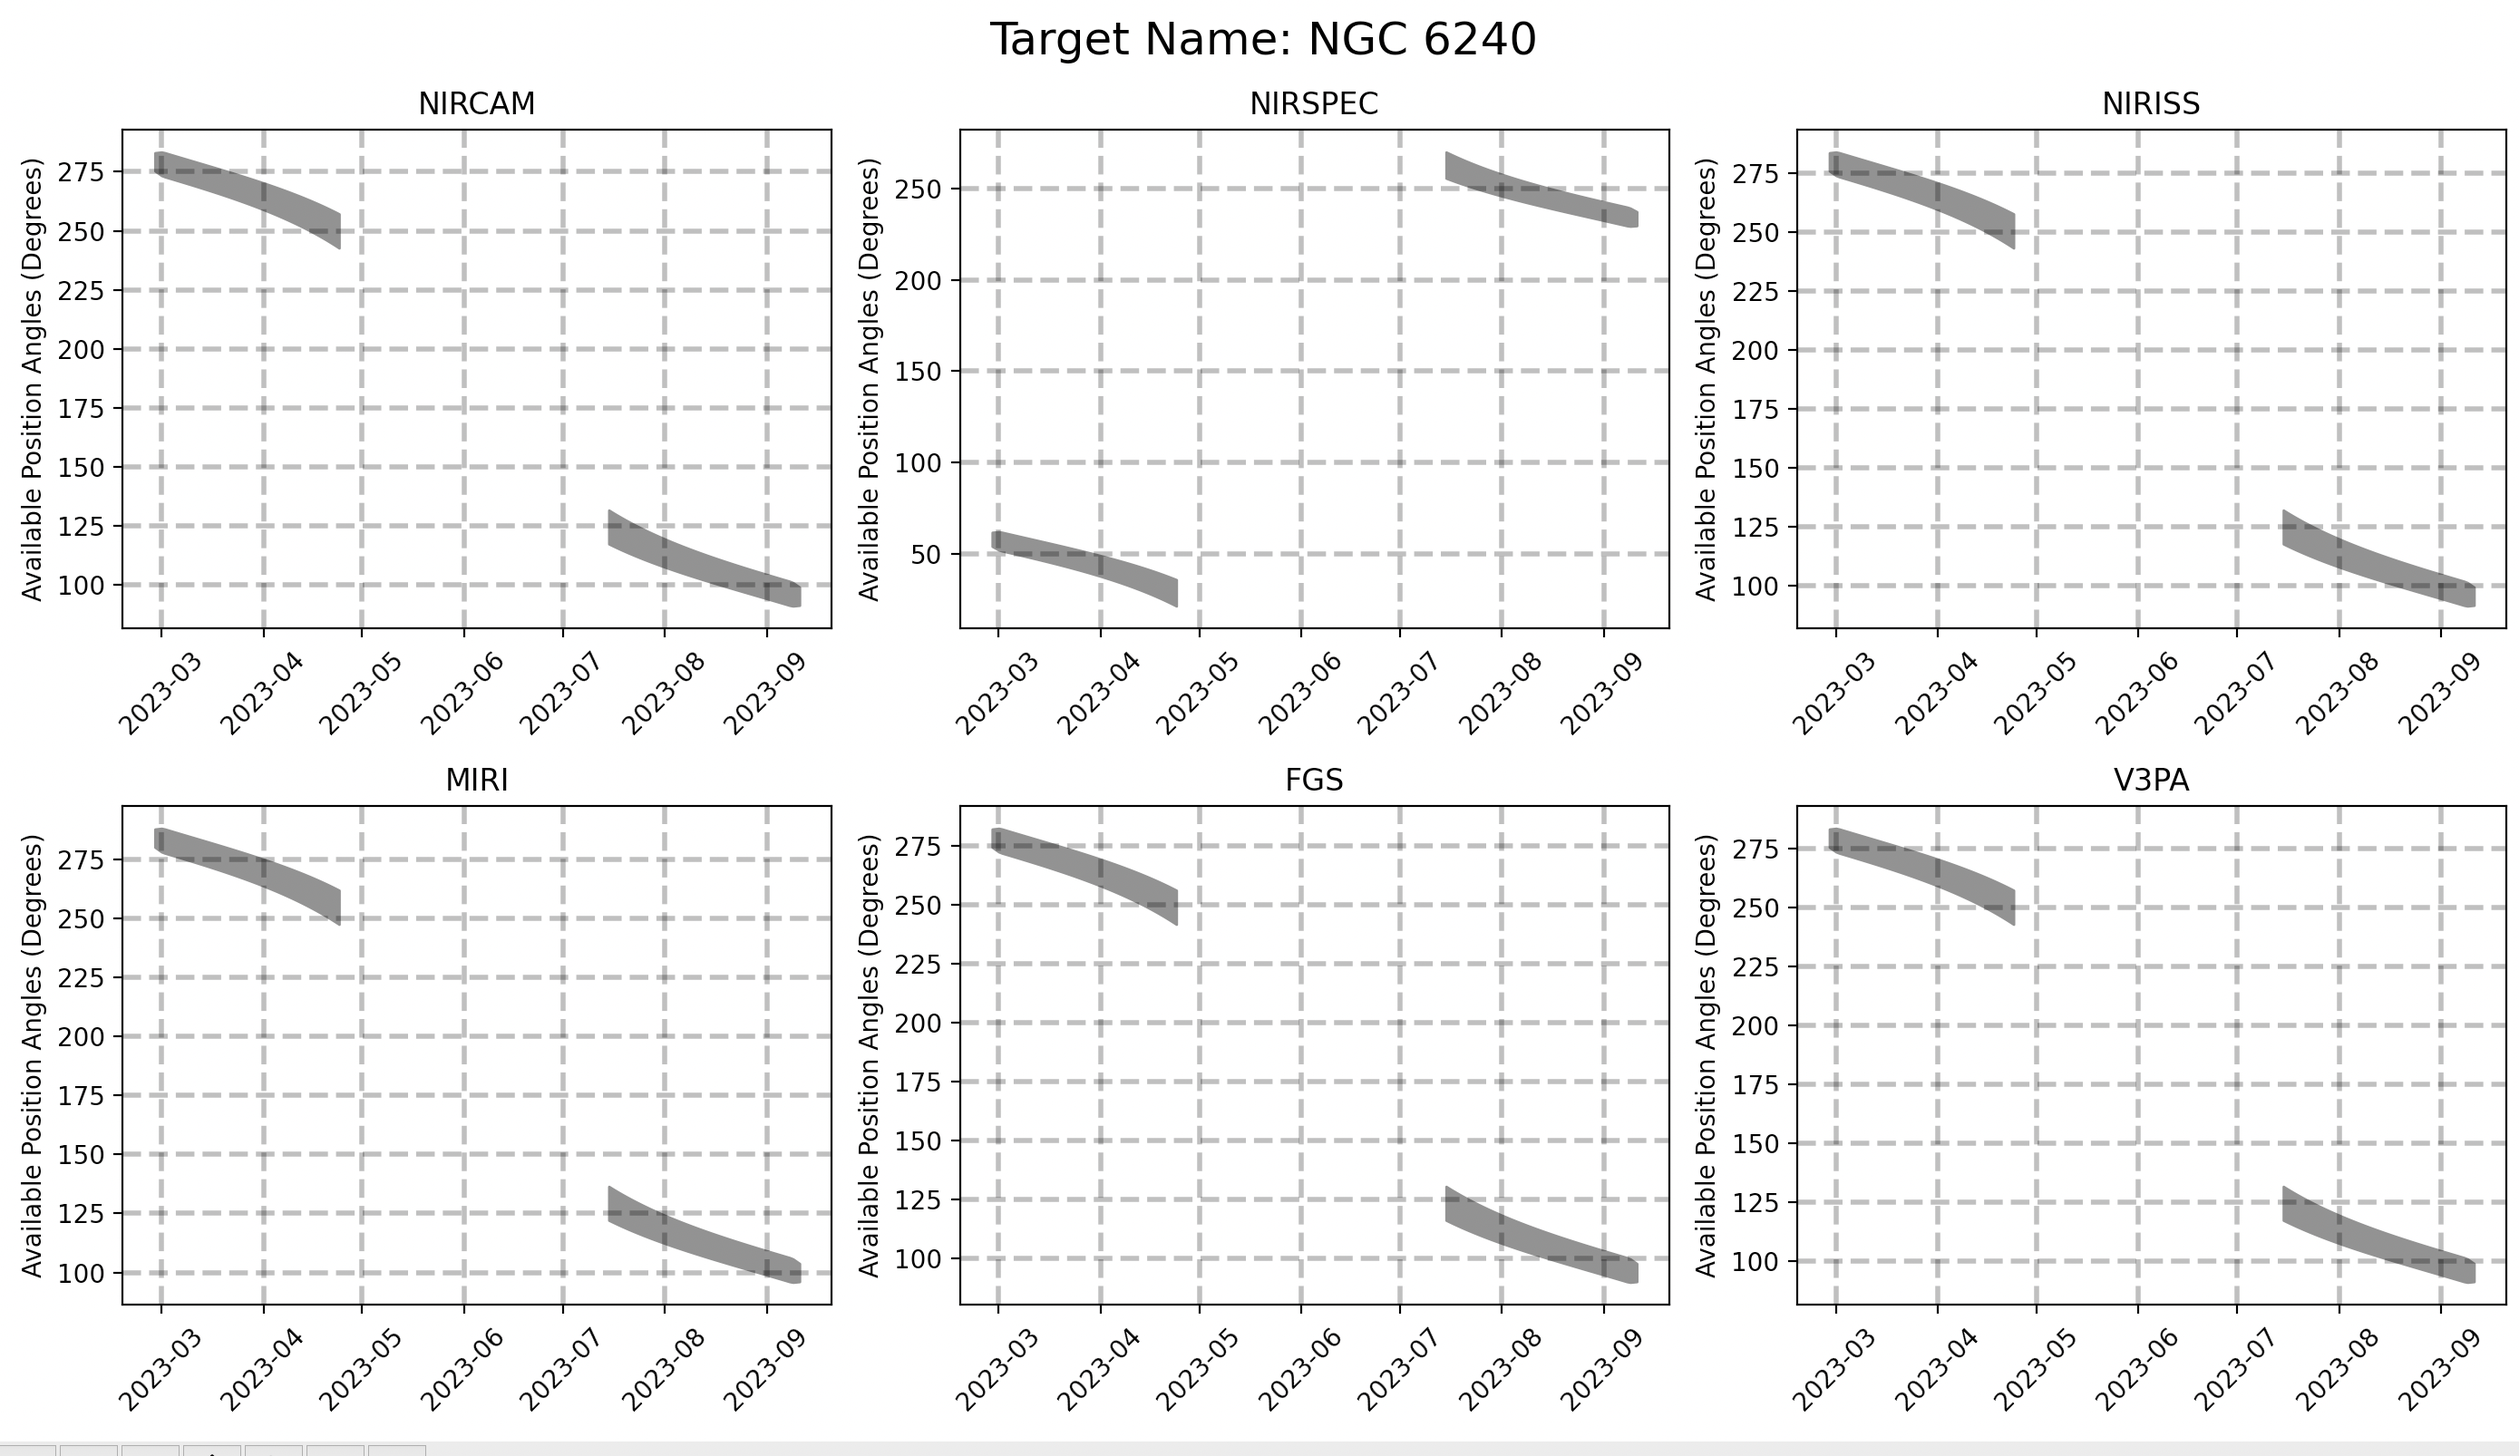
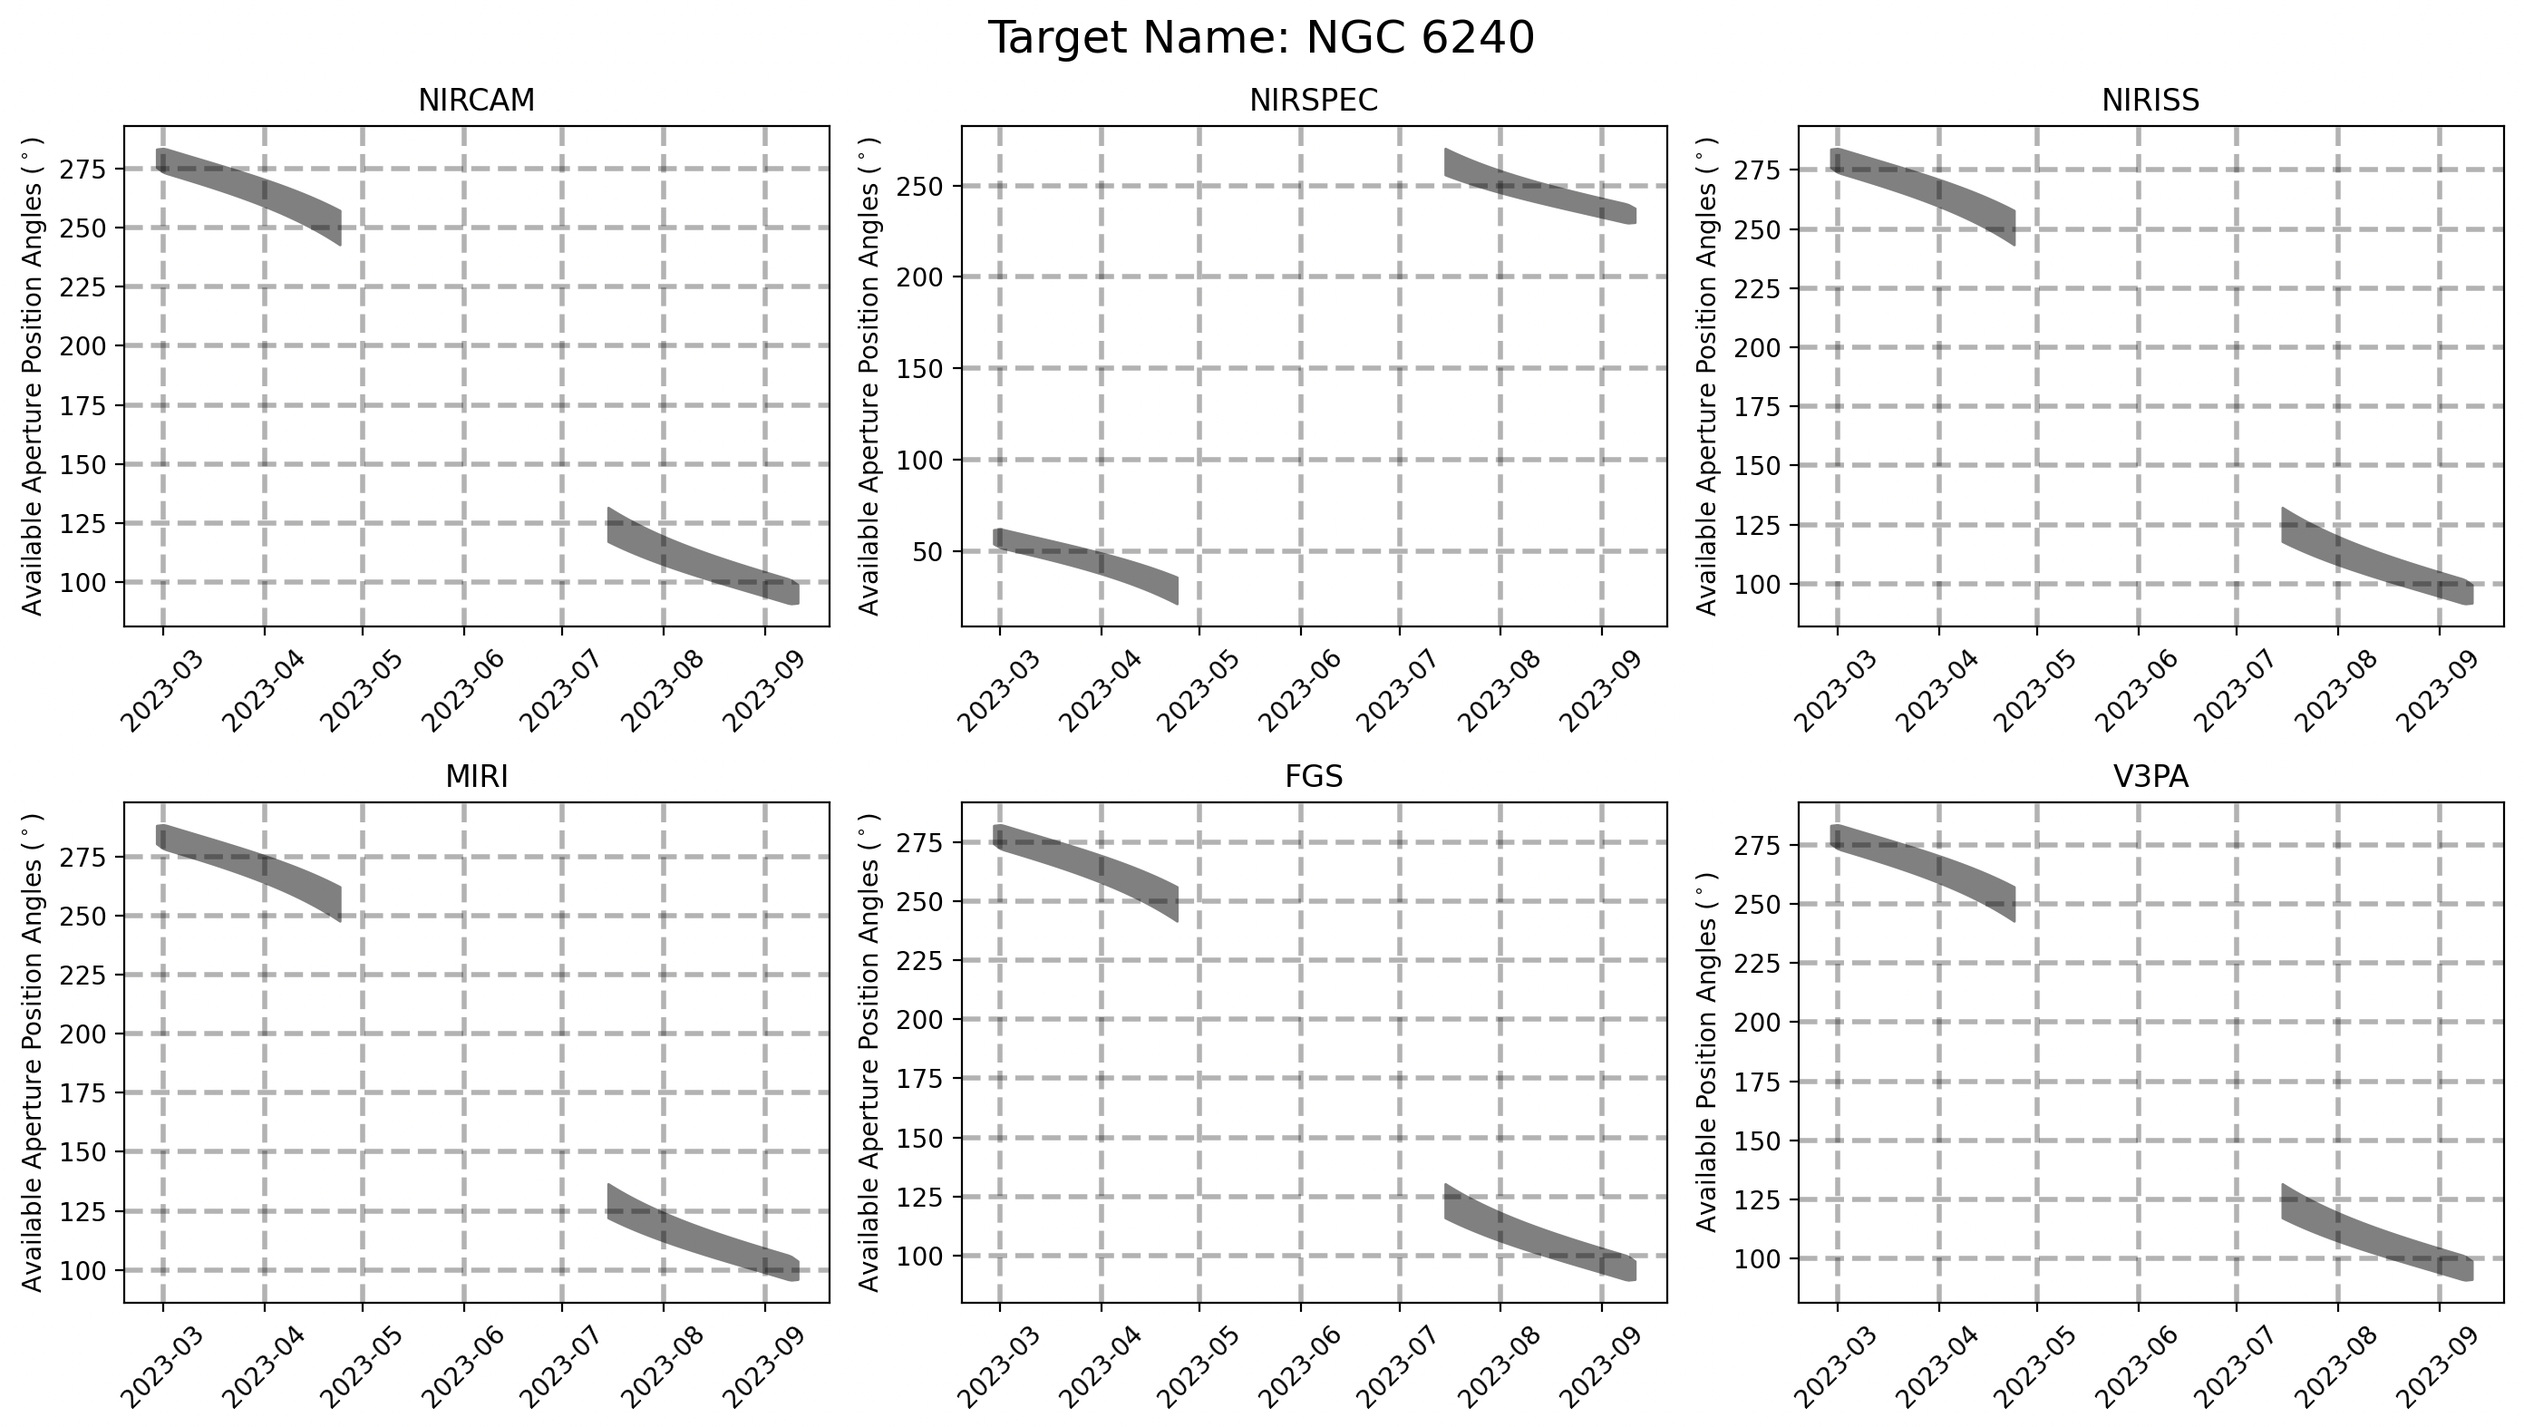
Updating plotting code and figures for the docs

diff --git a/jwst_gtvt/plotting.py b/jwst_gtvt/plotting.py
@@ -28,7 +28,10 @@ def plot_visibility(ephemeris, instrument=None, name=None, write_plot=None, test
             plt.fill_between(data_to_plot['times'], min_PA_data, max_PA_data, color='grey')
             plt.fmt_xdata = DateFormatter('%Y-%m-%d')
 
-        plt.ylabel('Available Position Angles (Degrees)', fontsize=18)
+        if instrument=='v3pa':
+            plt.ylabel('Available Position Angles ($^\circ$)', fontsize=18)
+        else:
+            plt.ylabel('Available Aperture Position Angles ($^\circ$)', fontsize=18)
 
         if ephemeris.fixed:
             ra, dec = max(df['ra']), max(df['dec'])

diff --git a/jwst_gtvt/jwst_tvt.py b/jwst_gtvt/jwst_tvt.py
@@ -66,7 +66,7 @@ class Ephemeris:
         except:
             max_date = '2025-05-29'
 
-        if start_date < Time(LAUNCH_DATE) or end_date > Time('2025-05-29'):
+        if start_date < Time(LAUNCH_DATE) or end_date > Time(max_date):
             date_out_of_bound_msg = ("Time frame selected {} ----> {} is out of bounds!".format(start_date, end_date),
                                      "Please select dates between {} ----> {}".format(LAUNCH_DATE, max_date))
             raise SystemExit(date_out_of_bound_msg)
